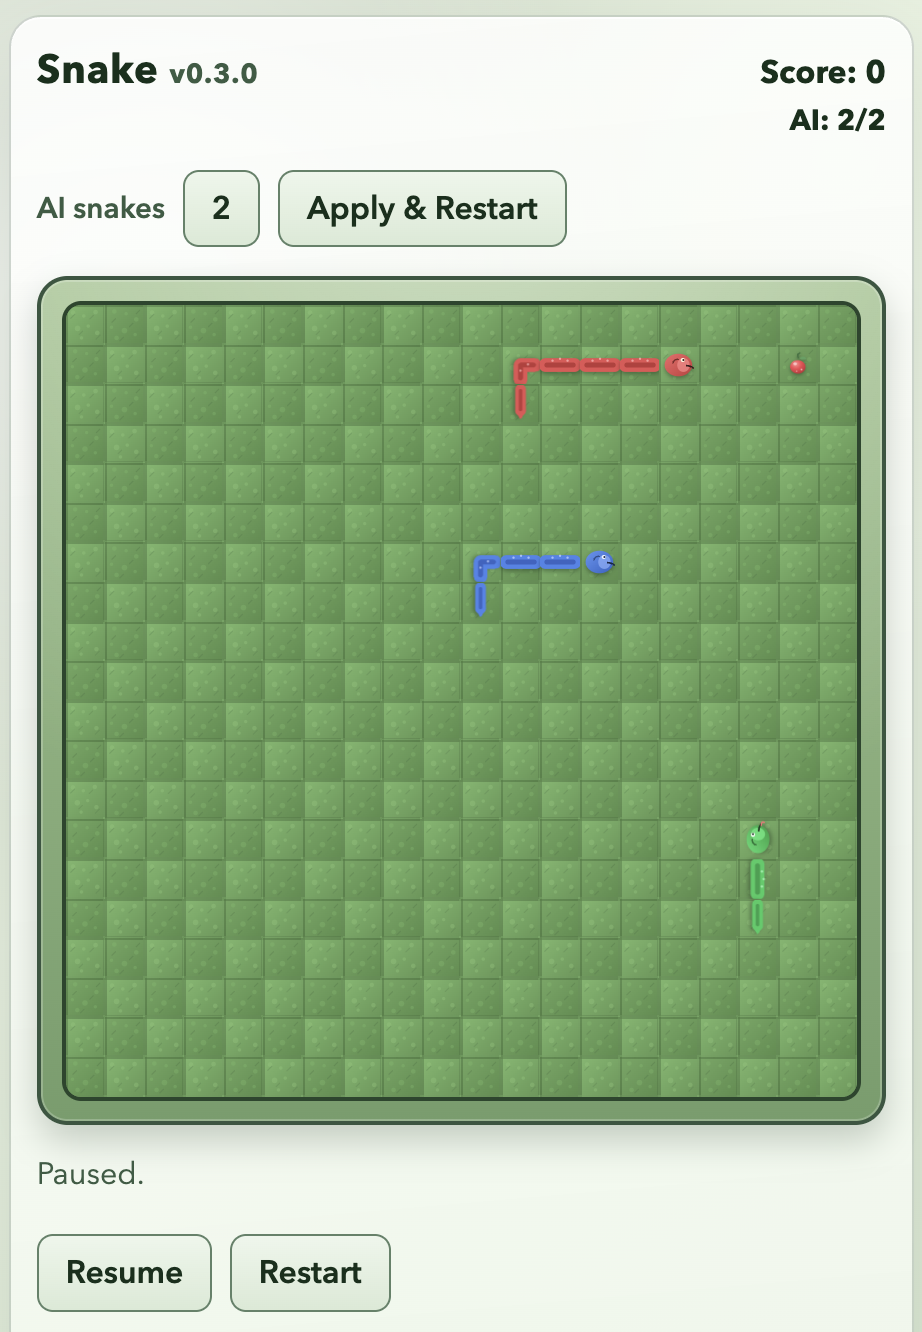
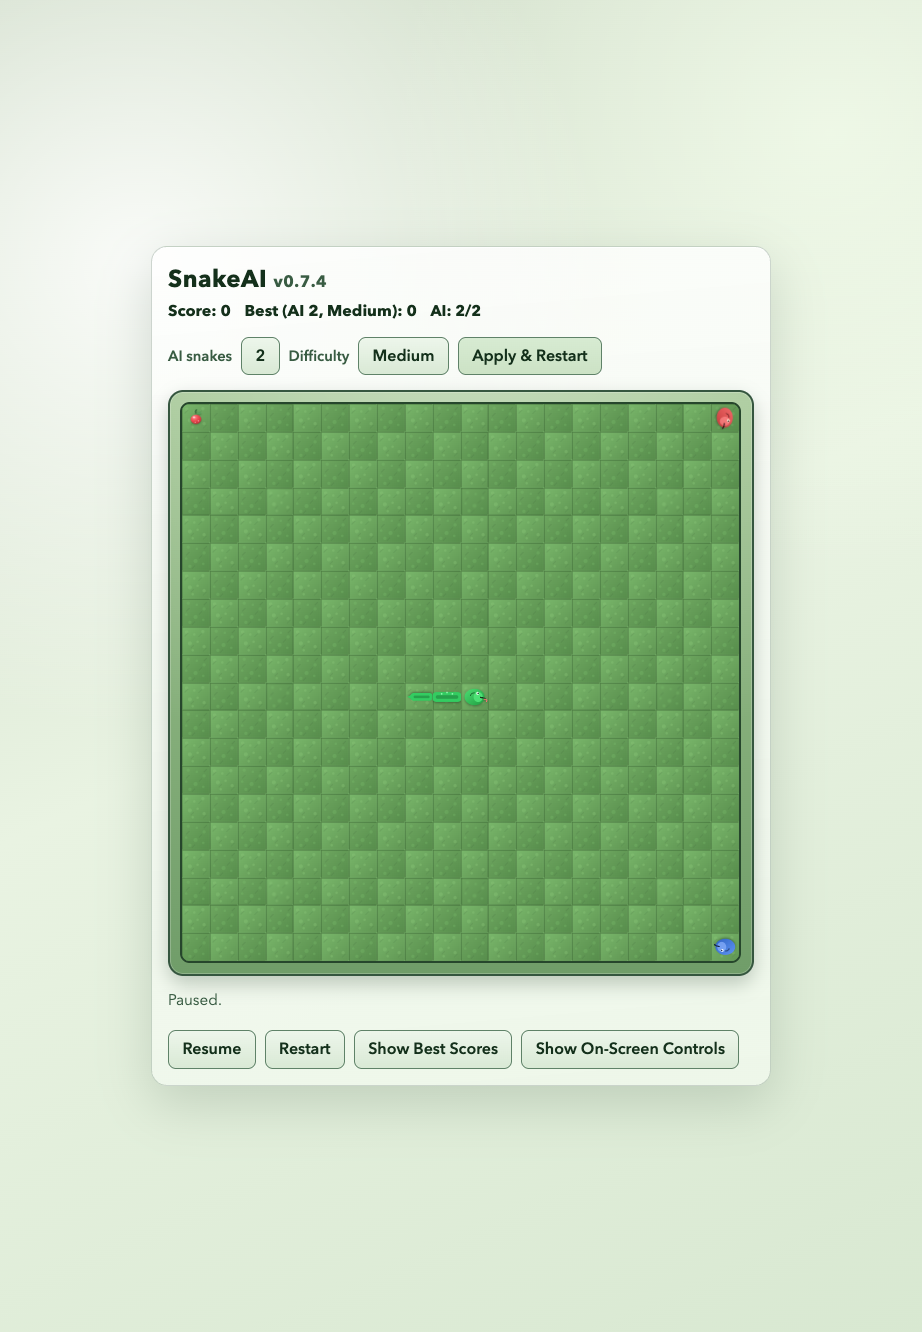
Release SnakeAI v0.7.4
Fix active-game movement key defaults, harden high-score recovery, and refresh SnakeAI metadata, docs, and screenshot.

diff --git a/tests/appBehavior.test.js b/tests/appBehavior.test.js
@@ -209,6 +209,26 @@ class WindowMock {
 
     this.listeners.get(type).push(handler);
   }
+
+  dispatch(type, init = {}) {
+    const handlers = this.listeners.get(type) ?? [];
+    const event = {
+      type,
+      target: this,
+      currentTarget: this,
+      defaultPrevented: false,
+      preventDefault() {
+        this.defaultPrevented = true;
+      },
+      ...init
+    };
+
+    for (const handler of handlers) {
+      handler(event);
+    }
+
+    return event;
+  }
 }
 
 function createLocalStorageMock() {
@@ -287,6 +307,7 @@ function installAppEnvironment() {
 
   return {
     document,
+    window,
     localStorage,
     timers,
     restore() {
@@ -591,6 +612,51 @@ test("short touch movement below threshold does not change direction", async (t)
   assert.equal(headCell.classList.contains("dir-right"), true);
 });
 
+test("duplicate movement key prevents default while active", async (t) => {
+  const env = installAppEnvironment();
+  t.after(() => {
+    env.restore();
+  });
+
+  await loadAppModule();
+
+  const startButton = env.document.getElementById("start-btn");
+  const difficultySelect = env.document.getElementById("difficulty");
+  const rogueCountSelect = env.document.getElementById("rogue-count");
+
+  rogueCountSelect.value = "0";
+  difficultySelect.value = "MEDIUM";
+  startButton.dispatch("click");
+
+  const event = env.window.dispatch("keydown", { code: "ArrowRight" });
+  assert.equal(event.defaultPrevented, true);
+});
+
+test("reverse movement key prevents default while remaining ignored", async (t) => {
+  const env = installAppEnvironment();
+  t.after(() => {
+    env.restore();
+  });
+
+  await loadAppModule();
+
+  const startButton = env.document.getElementById("start-btn");
+  const difficultySelect = env.document.getElementById("difficulty");
+  const rogueCountSelect = env.document.getElementById("rogue-count");
+
+  rogueCountSelect.value = "0";
+  difficultySelect.value = "MEDIUM";
+  startButton.dispatch("click");
+
+  const event = env.window.dispatch("keydown", { code: "ArrowLeft" });
+  assert.equal(event.defaultPrevented, true);
+
+  assert.equal(env.timers.runNext(), true);
+  const headCell = getPlayerHeadCell(env.document);
+  assert.ok(headCell);
+  assert.equal(headCell.classList.contains("dir-right"), true);
+});
+
 test("corrupt high-scores JSON falls back to legacy high-score key", async (t) => {
   const env = installAppEnvironment();
   t.after(() => {
@@ -605,6 +671,27 @@ test("corrupt high-scores JSON falls back to legacy high-score key", async (t) =
   const highScore = env.document.getElementById("high-score");
   assert.equal(highScore.textContent, "42");
 });
+
+for (const [payloadName, payload] of [
+  ["null", "null"],
+  ["string", JSON.stringify("not a score map")],
+  ["array", JSON.stringify([])]
+]) {
+  test(`parseable invalid ${payloadName} high-scores JSON falls back to legacy key`, async (t) => {
+    const env = installAppEnvironment();
+    t.after(() => {
+      env.restore();
+    });
+
+    env.localStorage.setItem("snake_highScoresByAiCount", payload);
+    env.localStorage.setItem("snake_highScore", "29");
+
+    await loadAppModule();
+
+    const highScore = env.document.getElementById("high-score");
+    assert.equal(highScore.textContent, "29");
+  });
+}
 
 test("legacy high-score key is migrated into main key and removed after load", async (t) => {
   const env = installAppEnvironment();

diff --git a/src/app.js b/src/app.js
@@ -298,6 +298,14 @@ function getGameOverMessage(reason) {
   return "Game finished.";
 }
 
+function isStoredHighScoreMap(value) {
+  return (
+    value !== null &&
+    typeof value === "object" &&
+    !Array.isArray(value)
+  );
+}
+
 function loadHighScoresByRogueCount() {
   const fallback = createDefaultHighScores(MAX_ROGUE_SNAKES, ALL_DIFFICULTIES);
 
@@ -312,7 +320,7 @@ function loadHighScoresByRogueCount() {
         parsed = undefined;
       }
 
-      if (parsed !== undefined) {
+      if (isStoredHighScoreMap(parsed)) {
         const { highScores: migrated, didMigrate } = migrateHighScores(
           parsed,
           MAX_ROGUE_SNAKES,
@@ -1059,8 +1067,9 @@ window.addEventListener("keydown", (event) => {
   }
 
   const mappedDirection = DIRECTION_KEYS[event.code];
-  if (mappedDirection && applyDirectionInput(mappedDirection)) {
+  if (mappedDirection && !state.gameOver) {
     event.preventDefault();
+    applyDirectionInput(mappedDirection);
     return;
   }
 

diff --git a/index.html b/index.html
@@ -3,13 +3,14 @@
   <head>
     <meta charset="UTF-8" />
     <meta name="viewport" content="width=device-width, initial-scale=1.0" />
-    <title>Snake</title>
+    <title>SnakeAI</title>
+    <link rel="icon" type="image/svg+xml" href="./src/assets/food-berry.svg" />
     <link rel="stylesheet" href="./src/styles.css" />
   </head>
   <body>
     <main class="app">
       <section class="hud">
-        <h1>Snake <span class="version">v0.7.3</span></h1>
+        <h1>SnakeAI <span class="version">v0.7.4</span></h1>
         <div class="hud-meta">
           <p class="score">Score: <span id="score">0</span></p>
           <p class="high-score">
@@ -45,7 +46,7 @@
           id="board"
           class="board"
           role="application"
-          aria-label="Snake game board"
+          aria-label="SnakeAI game board"
         ></div>
       </section>
 

diff --git a/README.md b/README.md
@@ -1,8 +1,8 @@
-# Classic Snake (snake_ai)
+# SnakeAI (snake_ai)
 
-Current version: `0.7.3`
+Current version: `0.7.4`
 
-Minimal browser-based Snake game built with vanilla JavaScript, HTML, and CSS. Features configurable AI opponents, sprite-based 2D visuals, and symmetric collision rules.
+Minimal browser-based SnakeAI game built with vanilla JavaScript, HTML, and CSS. Features configurable AI opponents, sprite-based 2D visuals, and symmetric collision rules.
 
 ![Gameplay screenshot](screenshot.png)
 
@@ -27,6 +27,7 @@ Minimal browser-based Snake game built with vanilla JavaScript, HTML, and CSS. F
 - Restart and pause/resume controls
 - Mobile-compatible responsive UI for phone and tablet browsers, with a lighter touch-device render path
 - Keyboard controls (`Arrow` keys + `WASD`), on-screen touch controls, and board swipe gestures
+- Active movement keys are consumed even when a direction is ignored, preventing page scroll or accidental selector changes during play
 - 2D sprite visuals: green player snake, red/blue AI snake themes, animated food berry, and textured grass tiles
 
 ## Architecture
@@ -49,6 +50,7 @@ src/
 
 ## Patch Notes
 
+- `v0.7.4`: fixed active-game movement key handling so duplicate or reverse `Arrow`/`WASD` inputs still prevent browser defaults while preserving the existing movement rules. Hardened best-score loading further by treating parseable but invalid main high-score payloads (`null`, strings, arrays) as recoverable, allowing legacy `snake_highScore` data to migrate instead of being replaced with zeros. Refreshed SnakeAI naming/version metadata and expanded coverage from 102 to 107 tests.
 - `v0.7.3`: hardened best-score loading against data loss. `loadHighScoresByRogueCount` now recovers the legacy `snake_highScore` key when the main `snake_highScoresByAiCount` JSON is corrupt instead of silently resetting to zeros. After reading a legacy score, the migrated fallback is persisted into the new key and the legacy key is removed, so subsequent loads skip migration. `normalizeHighScores` now preserves well-formed scores for unknown difficulties or rogue counts, so version downgrades and difficulty-set trims don't drop records. Increased total coverage from 92 to 102 tests with regression coverage for each fix, plus new tests for `stepState` with null food and `advanceRogueLifecycle`'s `respawnFood` callback paths.
 - `v0.7.2`: tightened per-tick collision checks for both the player snake and rogue snakes by replacing temporary body-slice scans with direct indexed loops, reducing unnecessary allocations in hot movement paths. Also removed a candidate render-path change that added avoidable per-frame array writes, so this release keeps the net performance change positive while preserving the current 92-test behavior.
 - `v0.7.1`: improved runtime smoothness, especially on phones. Reduced board-render DOM churn by diffing overlay classes with cheaper indexed structures, optimized food respawn placement to avoid string-heavy board scans when fruit is eaten, and added a lighter coarse-pointer/mobile paint path that trims expensive tile and sprite effects under touch interaction. This keeps gameplay noticeably smoother while preserving the current 92-test behavior.
@@ -115,7 +117,7 @@ http://localhost:4173
 
 ## Test Coverage (Core Logic)
 
-92 tests across six test files:
+107 tests across six test files:
 
 **App behavior** (`tests/appBehavior.test.js`):
 - Run difficulty remains locked for active tick timing and HUD best label
@@ -126,6 +128,9 @@ http://localhost:4173
 - Swipe input applies direction on `touchmove` (without waiting for `touchend`)
 - Invalid reverse swipe keeps the gesture alive for a later valid swipe
 - Touch movement below swipe threshold does not change direction
+- Duplicate and reverse movement keys prevent browser defaults while active
+- Corrupt and parseable-invalid high-score payloads fall back to the legacy high-score key
+- Legacy high-score key is migrated into the main high-score map and removed after load
 - One-tick initial rogue delays spawn on the next tick
 
 **Shared utilities** (`tests/shared.test.js`):